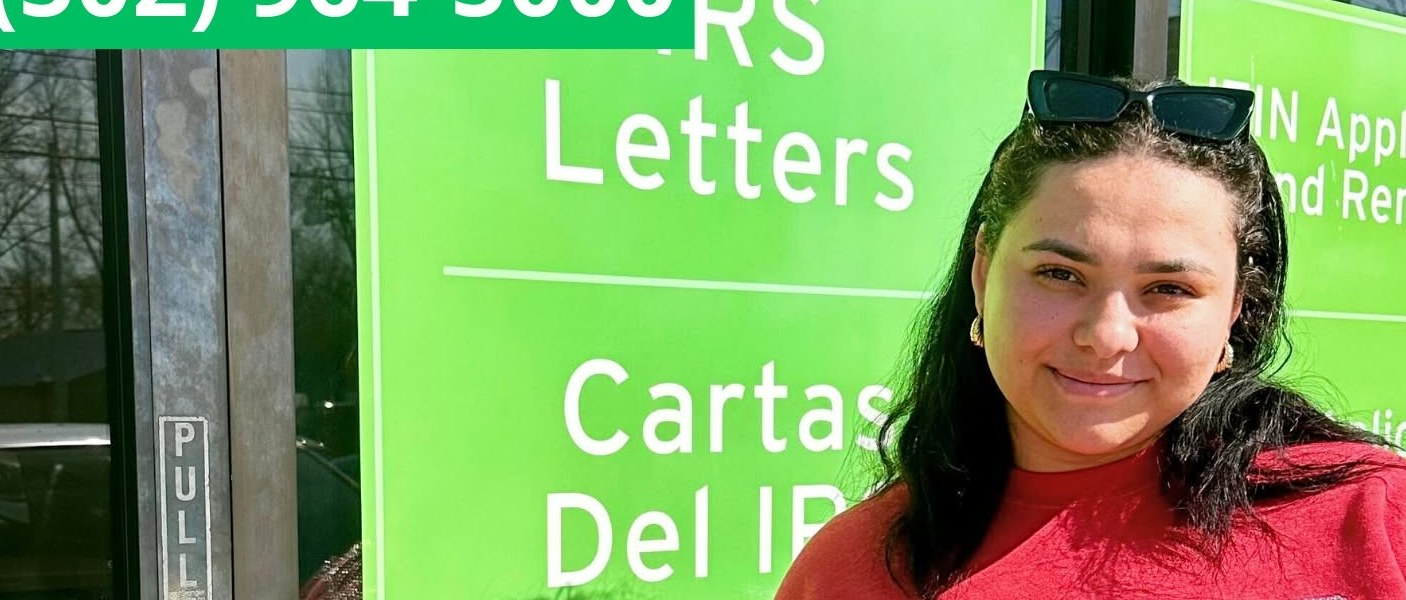
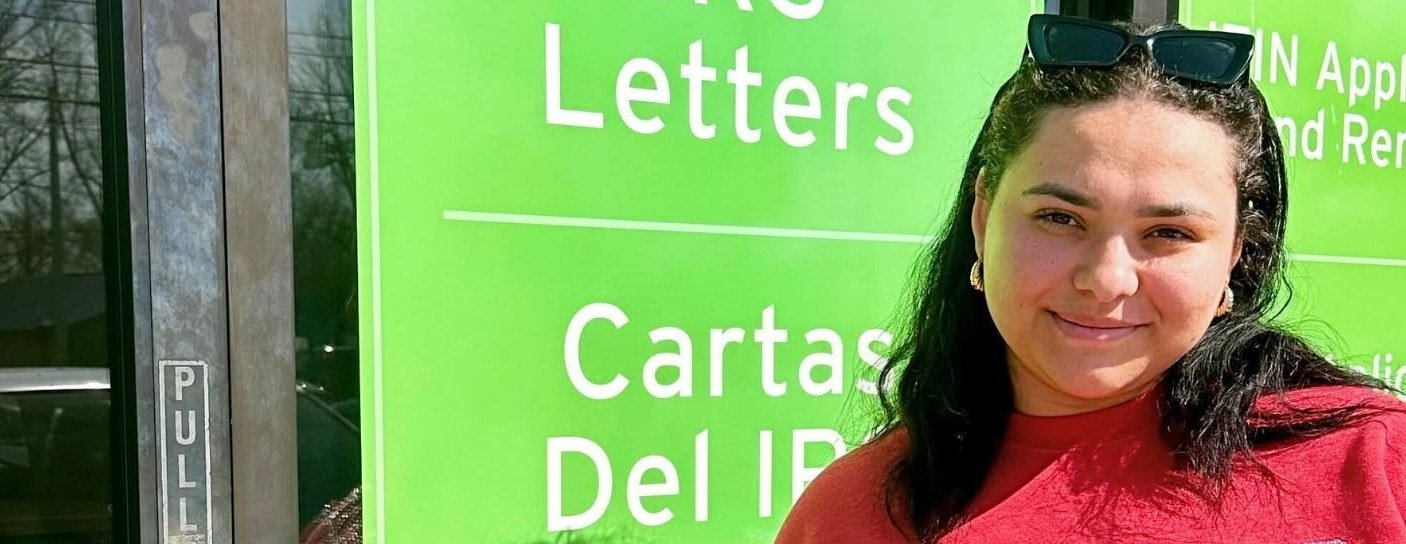
Switch business phone to (502) 237-8222
Client changed the main line. WhatsApp link follows it since it was
assumed to share the main number. The office-cards photo had the old
number baked into its top edge, so that band is cropped off.

diff --git a/src/data/site.ts b/src/data/site.ts
@@ -32,12 +32,12 @@ export const site = {
   legalName: 'TAC Taxes',
   tagline: 'Simple · Accurate · Service',
 
-  /** Two graphics disagreed: one showed 764-5000, fifteen showed 964-5000. Door signage confirms 964. */
-  phone: '(502) 964-5000',
-  phoneHref: 'tel:+15029645000',
+  /** Supplied by client 2026-10-22; replaces (502) 964-5000 shown on the marketing graphics. */
+  phone: '(502) 237-8222',
+  phoneHref: 'tel:+15022378222',
 
   /** UNCONFIRMED: assumed same as the main line. WhatsApp appears on 4 of 16 graphics. */
-  whatsapp: 'https://wa.me/15029645000',
+  whatsapp: 'https://wa.me/15022378222',
 
   address: {
     street: '5751 Preston Hwy',

diff --git a/src/assets/graphics/README.md b/src/assets/graphics/README.md
@@ -17,9 +17,10 @@ Web-ready derivatives already cropped from these live in `public/images/`.
 Every graphic has marketing copy baked into the image — headlines, phone numbers,
 social icons. They can't be used as-is for web imagery. `public/images/storefront.jpg`
 and `office-cards.jpg` were cropped out of `682739203…` and `682389048…` respectively
-to isolate the usable photography.
+to isolate the usable photography (`office-cards.jpg` also has the old phone banner
+cropped off its top edge).
 
-Note the baked-in text is unreliable: it contains the phone and ZIP typos documented
+Note the baked-in text is unreliable: it contains the old phone number and the ZIP typo documented
 in the root README, and one graphic is stamped "TacTaxes 2023". Treat
 `src/data/site.ts` as the source of truth for any fact, not these images.
 

diff --git a/README.md b/README.md
@@ -134,5 +134,5 @@ no qualifier — disambiguated by position and **needs client confirmation**. A
 `DIGITAL MARKETING` family header exists with zero services and is omitted.
 
 Contact details were reconciled across 16 marketing graphics that disagreed with
-each other: phone `(502) 964-5000` (one graphic showed 764), ZIP `40219`
-(one showed 49219, a Michigan prefix).
+each other: ZIP `40219` (one showed 49219, a Michigan prefix). The graphics show phone
+`(502) 964-5000`; the live number is now `(502) 237-8222` per the client (2026-10-22).
